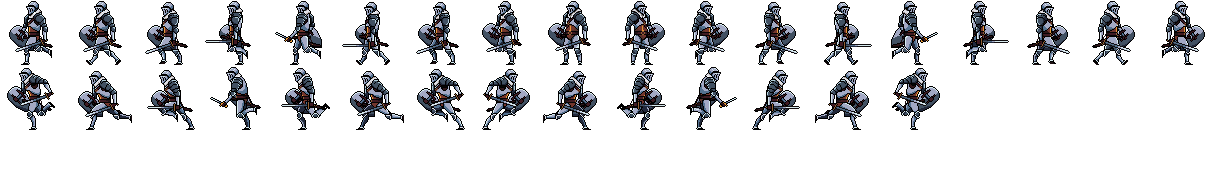
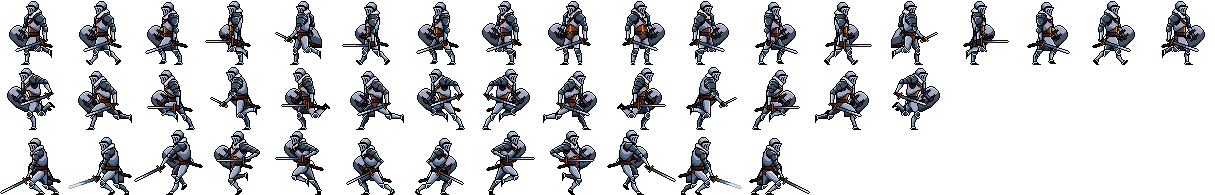
jump aggiunto

Changed region(s): [[0.0, 0.6769, 0.67, 1.0]]

diff --git a/game.js b/game.js
@@ -130,8 +130,15 @@ window.onload = function () {
             frameRate: 10,
             repeat: -1
         })
+        this.anims.create({
+            key: 'jumpRight',
+            frames: this.anims.generateFrameNumbers('dude', { start: 42, end: 47 }),
+            frameRate: 10,
+            repeat: 'no-repeat'
+        })
         cursor = this.input.keyboard.createCursorKeys();
     }
+    let isJumping = false;
     function update() {
         if (cursor.left.isDown) {
             if (cursor.shift.isDown) {
@@ -150,13 +157,24 @@ window.onload = function () {
                 player.anims.play('right', true);
             }
         } else {
-            player.anims.play('turn', true);
+            if (cursor.up.isDown) {
+                if (!isJumping) {
+                    player.anims.play('jumpRight', true);
+                    isJumping = true;
+                }
+            } else {
+                player.anims.play('turn', true);
+            }
             player.setVelocityX(0);
 
         }
 
         if (cursor.up.isDown && player.body.touching.down) {
-            player.setVelocityY(-150);
+
+            player.setVelocityY(-500);
+        }
+        if (!cursor.up.isDown) {
+            isJumping = false; // Resetta la variabile quando il tasto "up" non è premuto
         }
 
         if (score >= 120) {
